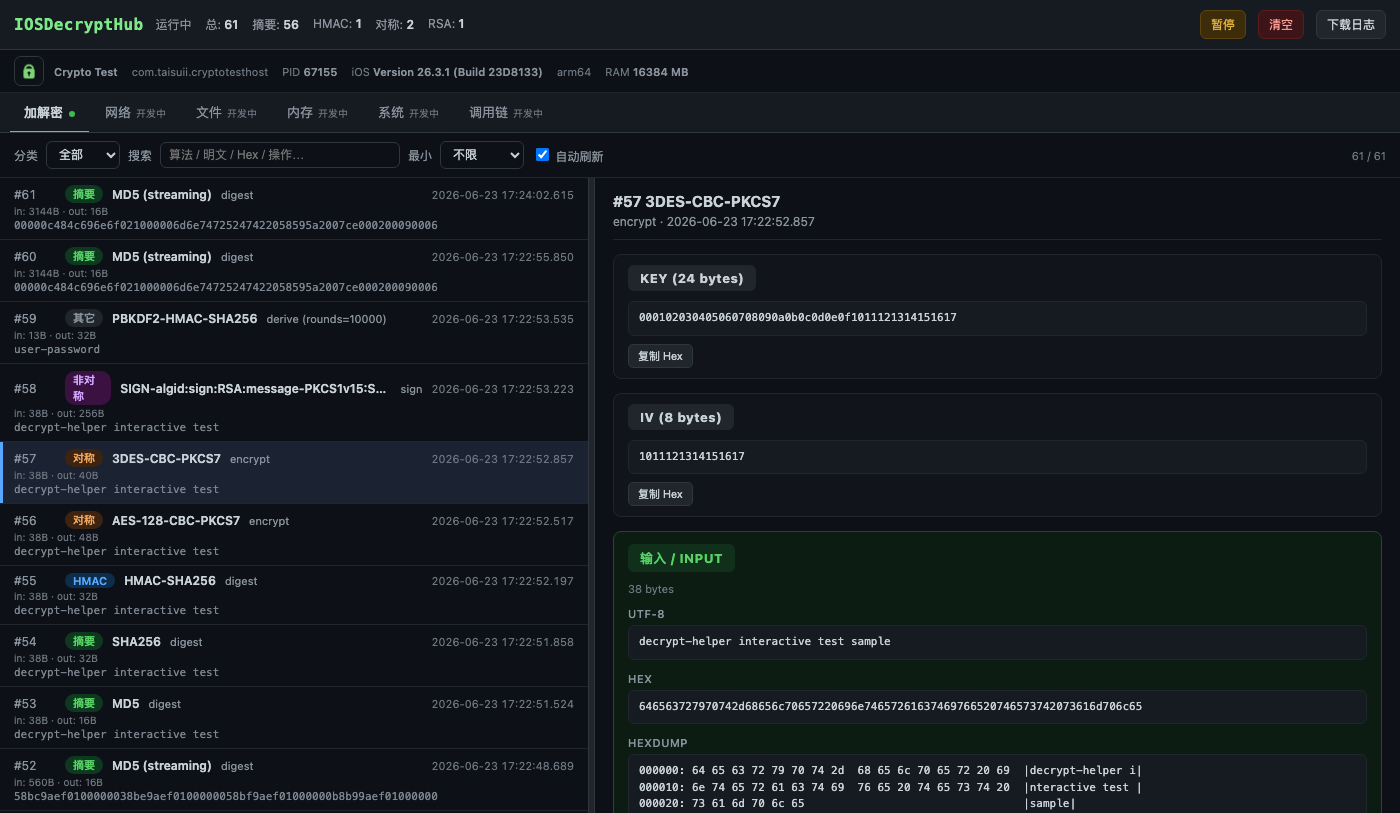
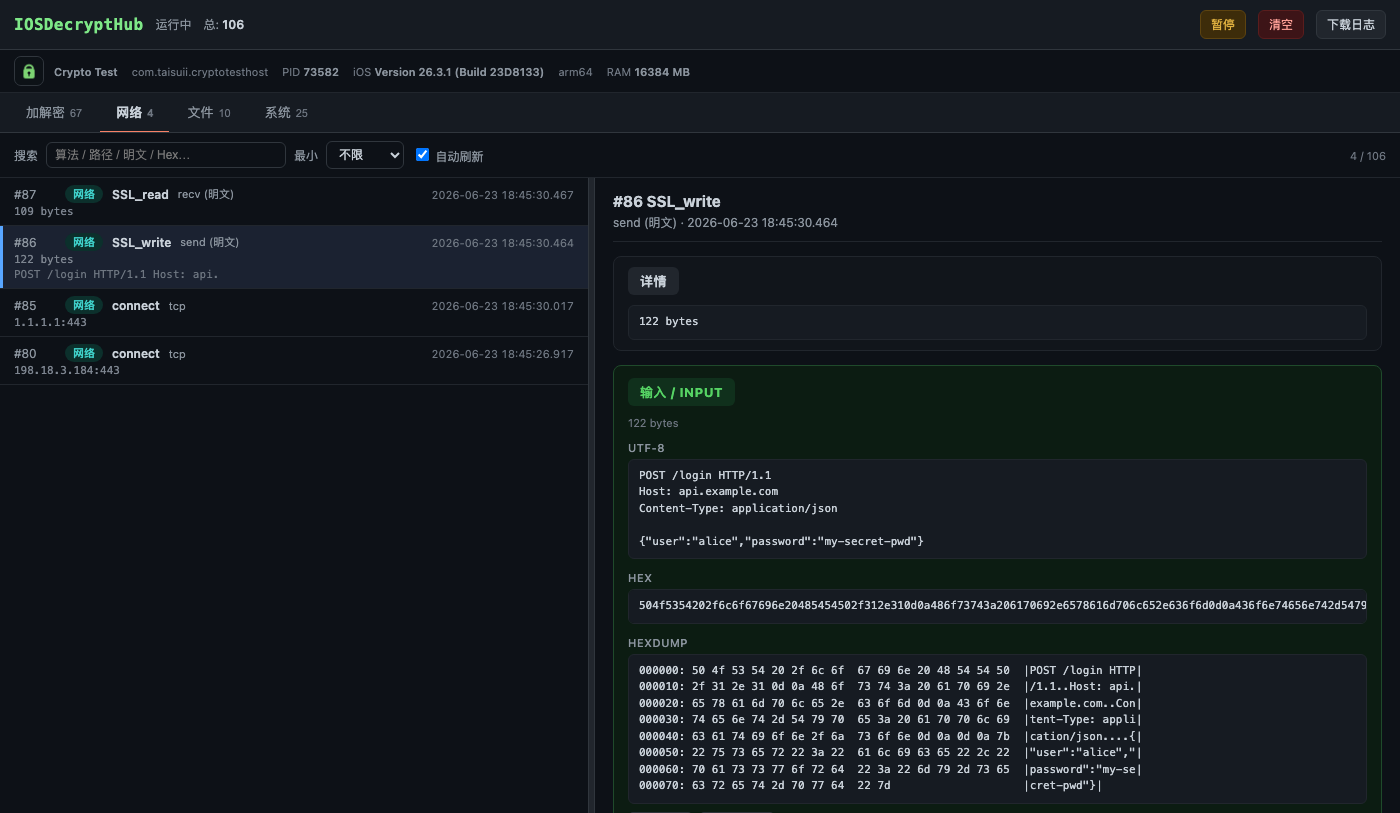
feat: 平台化为 IOSDecryptHub, 新增 网络/文件/系统 三类行为监控
- Web 多 tab 平台(加解密/网络/文件/系统)共享左右分栏 master-detail, tab 切 category
- 网络 hook: connect(真实目标IP) + SSL_write/SSL_read(自带BoringSSL明文); 系统NSURLSession的TLS明文fishhook够不着, connect能拿到目标
- 文件 hook: open/write/unlink/rename, 只认App沙盒数据容器(滤系统噪音)
- 系统 hook: dlopen 载入模块
- 宿主App图标(/api/appicon) + 进程栏显示
- 测试App分tab(segment) + mock_ssl.dylib(演示自带BoringSSL明文抓包)
- 递归保护(dh_in_hook)防死锁; 版本 1.5.0

diff --git a/sim_uitest/main.m b/sim_uitest/main.m
@@ -120,6 +120,12 @@ static void do_ssl_capture(void) {
     char buf[512];
     SSL_read(ssl, buf, sizeof(buf));          // 抓接收明文(mock 返回含 token 的响应)
 }
+static void do_https_request(void) {
+    // 真实 HTTPS(系统 NSURLSession): 实测 fishhook 能否抓到系统 TLS 的 connect 与明文.
+    NSURL *url = [NSURL URLWithString:@"https://httpbin.org/get?app=IOSDecryptHub"];
+    NSURLSession *sess = [NSURLSession sessionWithConfiguration:[NSURLSessionConfiguration ephemeralSessionConfiguration]];
+    [[sess dataTaskWithURL:url completionHandler:^(NSData *d, NSURLResponse *r, NSError *e) { (void)d; (void)r; (void)e; }] resume];
+}
 
 // ==================== 文件触发(文件 tab) ====================
 static NSString *test_file_path(void) {
@@ -230,8 +236,10 @@ static void do_dlopen(void) {
 
     // --- tab 1: 网络 ---
     UIStackView *t1 = [self addTabStack];
-    [self addGroup:t1 title:@"抓包" color:teal buttons:@[@"TCP 连接",@"SSL 抓包(明文)"]
-              sels:@[@"onTCP",@"onSSL"] keys:@[@"tcp",@"ssl"]];
+    [self addGroup:t1 title:@"真实请求(系统 TLS)" color:teal buttons:@[@"HTTPS 请求",@"TCP 连接"]
+              sels:@[@"onHTTPS",@"onTCP"] keys:@[@"https",@"tcp"]];
+    [self addGroup:t1 title:@"SSL 明文抓包(自带 BoringSSL 场景, mock 演示)" color:blue buttons:@[@"SSL 抓包(明文)"]
+              sels:@[@"onSSL"] keys:@[@"ssl"]];
 
     // --- tab 2: 文件 ---
     UIStackView *t2 = [self addTabStack];
@@ -372,6 +380,7 @@ static void do_dlopen(void) {
     if (c && [c respondsToSelector:@selector(presentFromFloating)]) [c performSelector:@selector(presentFromFloating)];
 }
 // 网络
+- (void)onHTTPS { do_https_request(); [self flash:@"HTTPS 请求 httpbin.org"]; }
 - (void)onTCP { do_tcp_connect(); [self flash:@"TCP connect 1.1.1.1:443"]; }
 - (void)onSSL { do_ssl_capture(); [self flash:@"SSL 抓包(明文)"]; }
 // 文件

diff --git a/src/hook_file.m b/src/hook_file.m
@@ -17,8 +17,11 @@ static BOOL dh_is_app_file(const char *p) {
     if (!p || !*p) return NO;
     if (strstr(p, "/System/") || strstr(p, "/usr/") || strstr(p, ".framework") ||
         strstr(p, ".dylib")   || strstr(p, "/var/db/")) return NO;
-    return (strstr(p, "/Documents/") || strstr(p, "/Library/") || strstr(p, "/tmp/") ||
-            strstr(p, "/Caches/")    || strstr(p, "/Application Support/")) ? YES : NO;
+    // 只认 App 自己的沙盒数据容器(真机 /var/mobile/Containers/Data/Application/...;
+    // 模拟器 .../CoreSimulator/Devices/.../data/Containers/Data/Application/...) —— 这样系统级
+    // /Library/Preferences/com.apple.*.plist 等不会混进来。/Documents/ /tmp/ 兜底。
+    if (strstr(p, "/Containers/Data/Application/")) return YES;
+    return (strstr(p, "/Documents/") || strstr(p, "/tmp/")) ? YES : NO;
 }
 
 static NSMutableDictionary<NSNumber *, NSString *> *gFdPath = nil;

diff --git a/README.md b/README.md
@@ -6,15 +6,13 @@
 
 ## 截图
 
-Web 面板（多 tab + 宿主 App 图标 + 左右分栏 master-detail）、交互式测试台、iOS 悬浮窗与全屏日志查看器。
+Web 面板多 tab（加解密 / 网络 / 文件 / 系统）+ 宿主 App 图标 + 左右分栏 master-detail，配交互式测试台、iOS 悬浮窗与全屏日志查看器。
 
-| Web 面板（加解密 tab，左右分栏） | 多 tab 平台（占位：网络 / 文件 / 内存 / 系统 / 调用链） |
+| Web 网络抓包（SSL_write 明文请求 + connect 目标 IP） | 交互式测试台（分 tab 触发各类调用） |
 | --- | --- |
-| ![web-panel](docs/screenshots/02-web-panel.png) | ![platform](docs/screenshots/05-platform.png) |
-| 交互式测试台 | 悬浮窗（毛玻璃，可拖动、可收起成胶囊） |
-| ![test-host](docs/screenshots/01-test-host.png) | ![floating](docs/screenshots/03-floating.png) |
-| 全屏日志查看器（分类切换、搜索、详情展开） | |
-| ![logview](docs/screenshots/04-logview.png) | |
+| ![web-net](docs/screenshots/02-web-panel.png) | ![test-host](docs/screenshots/01-test-host.png) |
+| 悬浮窗（毛玻璃，可拖动、可收起成胶囊） | 全屏日志查看器（分类切换、搜索、详情展开） |
+| ![floating](docs/screenshots/03-floating.png) | ![logview](docs/screenshots/04-logview.png) |
 
 ## 覆盖的算法
 
@@ -105,7 +103,7 @@ make test-mac
 
 编出 dylib 与一个命令行 exerciser，用 DYLD_INSERT_LIBRARIES 注入运行，浏览器开 http://127.0.0.1:8088 看结果。
 
-iOS 模拟器 / 真机：编出 sim_uitest 这个测试 App，注入 dylib 后安装运行，点界面上的按钮触发算法。该测试 App 还注册了 dhtest:// URL scheme，可用 xcrun simctl openurl <device> dhtest://md5 之类的命令模拟点击对应按钮，方便无人值守的自动化测试（可用的 key：md5 / sha1 / sha256 / sha512 / hmac / aes / 3des / des / rc4 / rsasign / rsaenc / pbkdf / big / all / log）。
+iOS 模拟器 / 真机：编出 sim_uitest 这个测试 App，注入 dylib 后安装运行，点界面上的按钮触发算法。该测试 App 还注册了 dhtest:// URL scheme，可用 xcrun simctl openurl <device> dhtest://md5 之类的命令模拟点击对应按钮，方便无人值守的自动化测试（可用的 key：md5 / sha1 / sha256 / sha512 / hmac / aes / 3des / des / rc4 / rsasign / rsaenc / pbkdf / big / all / log / https / tcp / ssl / fwrite / fread / fdel / frename / dlopen）。
 
 Release 附带一个已注入 dylib 的测试 IPA（未签名），重签后即可在真机上体验。
 
@@ -120,6 +118,10 @@ src/
   hook_symmetric.m      对称加密 hook
   hook_asymmetric.m     非对称 hook
   hook_kdf.m            PBKDF2 密钥派生 hook
+  hook_network.m        网络 hook (connect / SSL_write / SSL_read)
+  hook_file.m           文件 hook (open / write / unlink / rename)
+  hook_system.m         系统 hook (dlopen)
+  dh_health.{h,c}       健康状态中心 (fail-loud) + 递归保护
   http_server.{h,m}     零依赖本地 HTTP 服务
   web_index_html.h      内嵌的单页前端
   ui_float.{h,m}        悬浮控制窗
